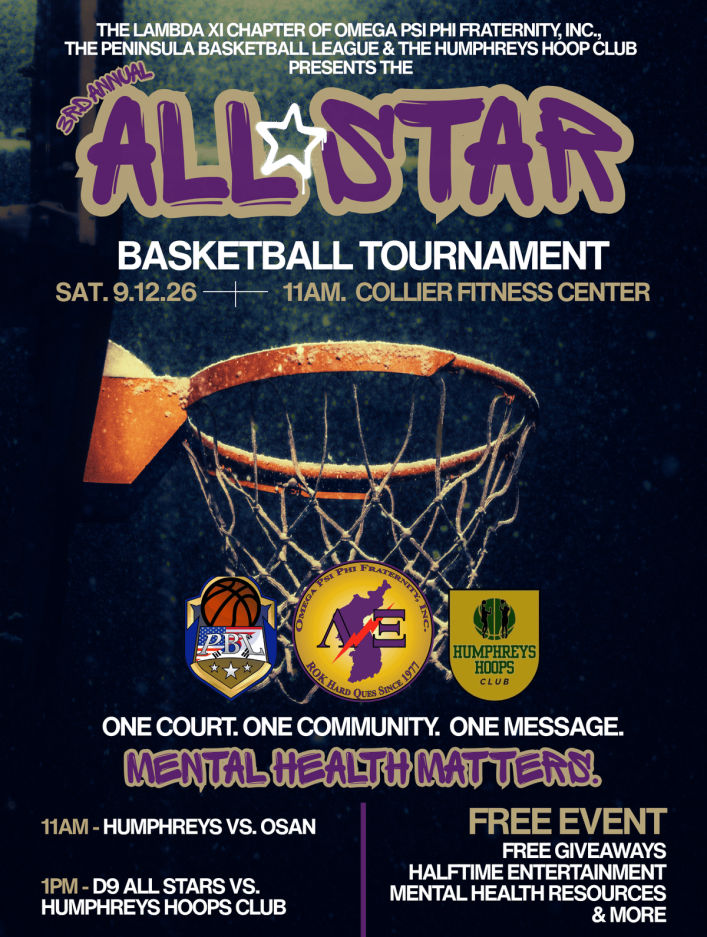
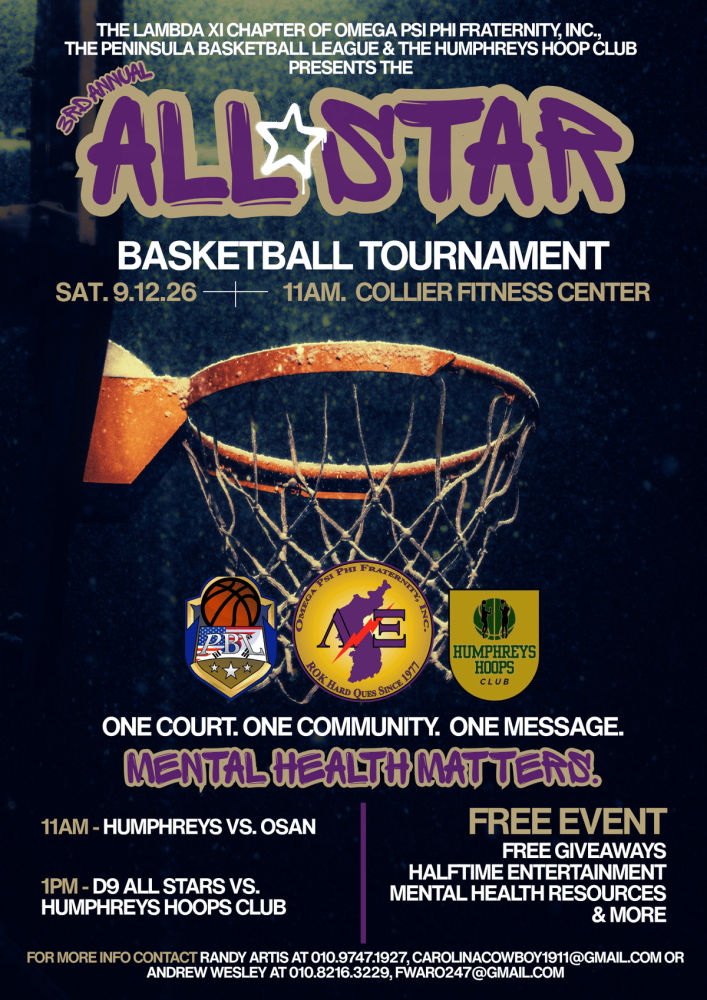
content: event pages rewritten; All-Star hyphenated; full posters restored
Achievement Week, All-Star Game, 50th Anniversary and Youth Leadership Conference get shorter approved copy, named email links, and uncropped posters without captions. The Events dropdown lists only the events.

diff --git a/tooling/mock-src/pages/programs.html b/tooling/mock-src/pages/programs.html
@@ -21,10 +21,10 @@
     <div class="container">
 
       <ul class="programs list-plain" role="list">
-        <li class="program" id="achievement-week"><picture><source type="image/webp" srcset="{{img:images/programs/achievement-week-400.webp}} 400w, {{img:images/programs/achievement-week-700.webp}} 700w, {{img:images/programs/achievement-week-900.webp}} 900w" sizes="(min-width: 1120px) 430px, (min-width: 640px) 40vw, 100vw"><img src="{{img:images/programs/achievement-week.jpg}}" srcset="{{img:images/programs/achievement-week-400.jpg}} 400w, {{img:images/programs/achievement-week-700.jpg}} 700w, {{img:images/programs/achievement-week.jpg}} 900w" sizes="(min-width: 1120px) 430px, (min-width: 640px) 40vw, 100vw" alt="Brothers in purple blazers presenting oversized cheques at the Achievement Week banquet" width="900" height="600"></picture><div><h2>Achievement Week</h2><p>Originally designed to promote the study of Negro life and history. Achievement Week is observed in November of each year and is designed to seek out and give due recognition to those individuals at the local and international levels who have made a noteworthy contribution toward improving the quality of life for black Americans. A High School Essay Contest is held in conjunction with Achievement Week.</p><p><a href="{{href:achievementWeek}}">Achievement Week 2026 and the essay contest</a></p></div></li>
-        <li class="program" id="college-endowment-fund"><picture><source type="image/webp" srcset="{{img:images/programs/college-endowment-fund-400.webp}} 400w, {{img:images/programs/college-endowment-fund-700.webp}} 700w, {{img:images/programs/college-endowment-fund-900.webp}} 900w" sizes="(min-width: 1120px) 430px, (min-width: 640px) 40vw, 100vw"><img src="{{img:images/programs/college-endowment-fund.jpg}}" srcset="{{img:images/programs/college-endowment-fund-400.jpg}} 400w, {{img:images/programs/college-endowment-fund-700.jpg}} 700w, {{img:images/programs/college-endowment-fund.jpg}} 900w" sizes="(min-width: 1120px) 430px, (min-width: 640px) 40vw, 100vw" alt="Two brothers presenting a student with a cheque in front of a Lambda Xi banner" width="900" height="647" loading="lazy"></picture><div><h2>College Endowment Fund</h2><p>Each year the fraternity gives at least $50,000 to Historically Black College Institutions (HBCU) in furtherance of Omega's commitment to provide philanthropic support. Chapters are assessed donations based on chapter size.</p></div></li>
+        <li class="program" id="achievement-week"><picture><source type="image/webp" srcset="{{img:images/programs/achievement-week-400.webp}} 400w, {{img:images/programs/achievement-week-700.webp}} 700w, {{img:images/programs/achievement-week-900.webp}} 900w" sizes="(min-width: 1120px) 430px, (min-width: 640px) 40vw, 100vw"><img src="{{img:images/programs/achievement-week.jpg}}" srcset="{{img:images/programs/achievement-week-400.jpg}} 400w, {{img:images/programs/achievement-week-700.jpg}} 700w, {{img:images/programs/achievement-week.jpg}} 900w" sizes="(min-width: 1120px) 430px, (min-width: 640px) 40vw, 100vw" alt="Brothers in purple blazers presenting oversized checks at the Achievement Week banquet" width="900" height="600"></picture><div><h2>Achievement Week</h2><p>Originally designed to promote the study of Negro life and history. Achievement Week is observed in November of each year and is designed to seek out and give due recognition to those individuals at the local and international levels who have made a noteworthy contribution toward improving the quality of life for black Americans. A High School Essay Contest is held in conjunction with Achievement Week.</p><p><a href="{{href:achievementWeek}}">Achievement Week 2026 and the essay contest</a></p></div></li>
+        <li class="program" id="college-endowment-fund"><picture><source type="image/webp" srcset="{{img:images/programs/college-endowment-fund-400.webp}} 400w, {{img:images/programs/college-endowment-fund-700.webp}} 700w, {{img:images/programs/college-endowment-fund-900.webp}} 900w" sizes="(min-width: 1120px) 430px, (min-width: 640px) 40vw, 100vw"><img src="{{img:images/programs/college-endowment-fund.jpg}}" srcset="{{img:images/programs/college-endowment-fund-400.jpg}} 400w, {{img:images/programs/college-endowment-fund-700.jpg}} 700w, {{img:images/programs/college-endowment-fund.jpg}} 900w" sizes="(min-width: 1120px) 430px, (min-width: 640px) 40vw, 100vw" alt="Two brothers presenting a student with a check in front of a Lambda Xi banner" width="900" height="647" loading="lazy"></picture><div><h2>College Endowment Fund</h2><p>Each year the fraternity gives at least $50,000 to Historically Black College Institutions (HBCU) in furtherance of Omega's commitment to provide philanthropic support. Chapters are assessed donations based on chapter size.</p></div></li>
         <li class="program" id="fatherhood-and-mentoring"><picture><source type="image/webp" srcset="{{img:images/programs/fatherhood-and-mentoring-400.webp}} 400w, {{img:images/programs/fatherhood-and-mentoring-700.webp}} 700w, {{img:images/programs/fatherhood-and-mentoring-900.webp}} 900w" sizes="(min-width: 1120px) 430px, (min-width: 640px) 40vw, 100vw"><img src="{{img:images/programs/fatherhood-and-mentoring.jpg}}" srcset="{{img:images/programs/fatherhood-and-mentoring-400.jpg}} 400w, {{img:images/programs/fatherhood-and-mentoring-700.jpg}} 700w, {{img:images/programs/fatherhood-and-mentoring.jpg}} 900w" sizes="(min-width: 1120px) 430px, (min-width: 640px) 40vw, 100vw" alt="Brothers and children at an outdoor Lambda Xi tent" width="900" height="600" loading="lazy"></picture><div><h2>Fatherhood and Mentoring</h2><p>Every level of the Fraternity, particularly at the chapter level, is asked to play an active role in support of the partnership by actively engaging in the promotion of the Fraternity's Fatherhood Mentoring initiative.</p><p><a href="{{href:ylc}}">Youth Leadership Conference</a></p></div></li>
-        <li class="program" id="health-initiatives"><picture><source type="image/webp" srcset="{{img:images/programs/health-initiatives-400.webp}} 400w, {{img:images/programs/health-initiatives-700.webp}} 700w, {{img:images/programs/health-initiatives-900.webp}} 900w" sizes="(min-width: 1120px) 430px, (min-width: 640px) 40vw, 100vw"><img src="{{img:images/programs/health-initiatives.jpg}}" srcset="{{img:images/programs/health-initiatives-400.jpg}} 400w, {{img:images/programs/health-initiatives-700.jpg}} 700w, {{img:images/programs/health-initiatives.jpg}} 900w" sizes="(min-width: 1120px) 430px, (min-width: 640px) 40vw, 100vw" alt="" width="900" height="507" loading="lazy"></picture><div><h2>Health Initiatives</h2><p>All levels of the fraternity are expected to facilitate, participate and/or coordinate activities that will uplift their communities by promoting good health practices. Some of the programs are the Charles Drew Blood Drive and partnership with the American Diabetes Association.</p><p><a href="{{href:allStar}}">All Star basketball tournament for mental health awareness</a></p></div></li>
+        <li class="program" id="health-initiatives"><picture><source type="image/webp" srcset="{{img:images/programs/health-initiatives-400.webp}} 400w, {{img:images/programs/health-initiatives-700.webp}} 700w, {{img:images/programs/health-initiatives-900.webp}} 900w" sizes="(min-width: 1120px) 430px, (min-width: 640px) 40vw, 100vw"><img src="{{img:images/programs/health-initiatives.jpg}}" srcset="{{img:images/programs/health-initiatives-400.jpg}} 400w, {{img:images/programs/health-initiatives-700.jpg}} 700w, {{img:images/programs/health-initiatives.jpg}} 900w" sizes="(min-width: 1120px) 430px, (min-width: 640px) 40vw, 100vw" alt="" width="900" height="507" loading="lazy"></picture><div><h2>Health Initiatives</h2><p>All levels of the fraternity are expected to facilitate, participate and/or coordinate activities that will uplift their communities by promoting good health practices. Some of the programs are the Charles Drew Blood Drive and partnership with the American Diabetes Association.</p><p><a href="{{href:allStar}}">All-Star basketball tournament for mental health awareness</a></p></div></li>
         <li class="program" id="memorial-service"><picture><source type="image/webp" srcset="{{img:images/programs/memorial-service-400.webp}} 400w, {{img:images/programs/memorial-service-700.webp}} 700w, {{img:images/programs/memorial-service-900.webp}} 900w" sizes="(min-width: 1120px) 430px, (min-width: 640px) 40vw, 100vw"><img src="{{img:images/programs/memorial-service.jpg}}" srcset="{{img:images/programs/memorial-service-400.jpg}} 400w, {{img:images/programs/memorial-service-700.jpg}} 700w, {{img:images/programs/memorial-service.jpg}} 900w" sizes="(min-width: 1120px) 430px, (min-width: 640px) 40vw, 100vw" alt="Brothers seated and standing in rows for a formal group photograph" width="900" height="496" loading="lazy"></picture><div><h2>Memorial Service</h2><p>March 12th of each year has been established as Memorial Day. Chapters are expected to conduct an appropriate service to recall the memory of those members who have entered into Omega Chapter.</p></div></li>
         <li class="program" id="naacp"><picture><source type="image/webp" srcset="{{img:images/programs/naacp-400.webp}} 400w, {{img:images/programs/naacp-700.webp}} 700w, {{img:images/programs/naacp-900.webp}} 900w" sizes="(min-width: 1120px) 430px, (min-width: 640px) 40vw, 100vw"><img src="{{img:images/programs/naacp.jpg}}" srcset="{{img:images/programs/naacp-400.jpg}} 400w, {{img:images/programs/naacp-700.jpg}} 700w, {{img:images/programs/naacp.jpg}} 900w" sizes="(min-width: 1120px) 430px, (min-width: 640px) 40vw, 100vw" alt="" width="900" height="473" loading="lazy"></picture><div><h2>NAACP</h2><p>Every district and chapter of the fraternity is required to maintain a Life Membership at Large in the NAACP. In the event that a chapter or district is not a life member of the NAACP, it must maintain a yearly membership to be in good standing with the fraternity.</p></div></li>
         <li class="program" id="reclamation-and-retention"><picture><source type="image/webp" srcset="{{img:images/programs/reclamation-and-retention-400.webp}} 400w, {{img:images/programs/reclamation-and-retention-700.webp}} 700w, {{img:images/programs/reclamation-and-retention-900.webp}} 900w" sizes="(min-width: 1120px) 430px, (min-width: 640px) 40vw, 100vw"><img src="{{img:images/programs/reclamation-and-retention.jpg}}" srcset="{{img:images/programs/reclamation-and-retention-400.jpg}} 400w, {{img:images/programs/reclamation-and-retention-700.jpg}} 700w, {{img:images/programs/reclamation-and-retention.jpg}} 900w" sizes="(min-width: 1120px) 430px, (min-width: 640px) 40vw, 100vw" alt="Brothers gathered outside a restaurant at night" width="900" height="507" loading="lazy"></picture><div><h2>Reclamation and Retention</h2><p>A concerted effort at the international, district and local levels to retain active brothers and return inactive brothers to full participatory status so that they may enjoy the full benefits of Omega.</p></div></li>

diff --git a/tooling/mock-src/pages/achievementWeek.html b/tooling/mock-src/pages/achievementWeek.html
@@ -14,7 +14,7 @@
       <nav aria-label="Breadcrumb"><ol class="crumbs"><li><a href="{{href:events}}">Events</a></li><li aria-current="page">Achievement Week</li></ol></nav>
       <p class="eyebrow">November 2026</p>
       <h1>Achievement Week 2026</h1>
-      <p>Observed every November across the fraternity: a week that recognises people who have improved the quality of life for Black Americans, awards the high school essay contest, and ends with the chapter banquet.</p>
+      <p>Observed fraternity-wide every November, Achievement Week recognizes individuals who advance the quality of life for Black Americans, awards high school essay contest winners, and concludes with our annual chapter banquet.</p>
     </div>
   </div>
 
@@ -22,45 +22,56 @@
     <div class="container two-col">
       <div class="prose">
         <h2 id="essay-contest">International High School Essay Contest</h2>
+        <h3>Topic prompt</h3>
+        <blockquote><p><em>How can young people use leadership, service, and innovation to create positive change in their communities?</em></p></blockquote>
         <dl class="details">
-          <dt>Topic</dt><dd>How can young people use leadership, service, and innovation to create positive change in their communities?</dd>
-          <dt>Who may enter</dt><dd>College-bound high school seniors at Daegu, Osan and Humphreys high schools</dd>
+          <dt>Eligibility</dt><dd>College-bound high school seniors at Daegu, Osan, and Humphreys high schools</dd>
           <dt>Deadline</dt><dd>{{event:essayDeadline2026:when}}</dd>
-          <dt>Awards</dt><dd>First place $500, second $300, third $200</dd>
-          <dt>Send to</dt><dd><a href="mailto:lambdaxi1911@gmail.com">lambdaxi1911@gmail.com</a></dd>
+          <dt>Awards</dt><dd>1st place $500 &middot; 2nd place $300 &middot; 3rd place $200</dd>
         </dl>
-        <h3>Rules</h3>
-        <ol>
-          <li>Title the essay with the topic above.</li>
-          <li>Original work: not previously published, not under copyright elsewhere, and not generated by an artificial intelligence tool.</li>
-          <li>700 to 750 words, typed, double-spaced, submitted by email as a Microsoft Word file.</li>
-          <li>Entrants under 18 must include the parental release and consent form signed by a parent or guardian.</li>
-          <li>Submit the application packet and the essay together, by the deadline, to the address above.</li>
-        </ol>
+        <h3>Rules and formatting</h3>
+        <ul>
+          <li>Must be 700 to 750 words, typed, double-spaced, and submitted as a Microsoft Word file (<code>.docx</code>).</li>
+          <li>Essay title must match the prompt topic exactly.</li>
+          <li>Must be original work (no artificial intelligence tools, prior publications, or copyrighted text).</li>
+          <li>Entrants under 18 must include the signed parental release and consent form.</li>
+        </ul>
         <h3>How to enter</h3>
         <ol>
-          <li>Register online so the committee expects your packet.</li>
-          <li>Download the application packet, complete it, and collect the consent signature if you are under 18.</li>
-          <li>Email the packet and your essay to <a href="mailto:lambdaxi1911@gmail.com">lambdaxi1911@gmail.com</a> before 5:00 PM on 15 October.</li>
+          <li><strong>Register online:</strong> complete the registration form below so the committee expects your application.</li>
+          <li><strong>Prepare your packet:</strong> download and complete the application packet (including parental consent if under 18).</li>
+          <li><strong>Submit:</strong> email your completed packet and essay together to the <a href="mailto:scholarship@lambdaxi1911.com">Scholarship Committee</a> before 5:00 PM on October 15.</li>
         </ol>
-        <p class="notice"><strong>Registration form status:</strong> the chapter's Google Form currently asks visitors to sign in to a Google account and turns most people away. Until it is made public, email the address above to register and say you could not use the form.</p>
         <p><a class="btn btn--primary" href="https://docs.google.com/forms/d/e/1FAIpQLSdxXzXGsIbBxydbmol96iL05nZGZPfz6bF1n8bH4mjDrgc83Q/viewform">Register for the essay contest (Google Form)</a></p>
       </div>
       <figure class="poster">
         <img src="{{img:images/events/essay-contest-2026.jpg}}" alt="Poster: 2026 Achievement Week High School Essay Contest, Lambda Xi Chapter. The topic, rules, awards, deadline and email address are given in the text on this page." width="707" height="1000">
-        <figcaption>Contest poster, 2026. Everything on it is written out on this page.</figcaption>
       </figure>
     </div>
   </section>
 
-  <section class="section section--alt" aria-labelledby="week-title">
+  <section class="section section--alt" aria-labelledby="banquet-title">
     <div class="container">
       <div class="prose">
-        <h2 id="week-title">Recognition programme and banquet</h2>
-        <p>The chapter has not yet published the 2026 programme. In past years the week has included a recognition programme for community honourees, the essay contest awards, and the Achievement Week banquet. In 2024 the banquet presented the Omega Man of the Year, Citizen of the Year, Founders' Lifetime Achievement, Superior Service and Brigadier General Charles Young Military Leadership awards (RoK Hard News, November 2024).</p>
-        <p>Details will appear here when announced. In the meantime: the <a href="{{href:gallery}}">2024 banquet and 2023 Achievement Week photo albums</a>, and the write-up in the <a href="https://issuu.com/lambdaxi/docs/lambda_xi_rok_hard_news_oy_25">Omega Year 2025 newsletter</a>.</p>
-        <h3>Questions</h3>
-        <p>Essay contest and scholarships: <a href="mailto:lambdaxi1911@gmail.com">lambdaxi1911@gmail.com</a>. Anything else: the <a href="{{href:contact}}">contact page</a>.</p>
+        <h2 id="banquet-title">Recognition program and banquet</h2>
+        <p>Details for the 2026 banquet will be posted as soon as they are announced. In the meantime, catch up on past highlights:</p>
+        <ul>
+          <li><a href="{{href:gallery2024}}#achievement-week-banquet">2024 Banquet photo album</a></li>
+          <li><a href="{{href:gallery2023}}#achievement-week">2023 Achievement Week photo album</a></li>
+          <li><a href="https://issuu.com/lambdaxi/docs/lambda_xi_rok_hard_news_oy_25">2025 Omega Year newsletter write-up</a></li>
+        </ul>
+      </div>
+    </div>
+  </section>
+
+  <section class="section" aria-labelledby="questions-title">
+    <div class="container">
+      <div class="prose">
+        <h2 id="questions-title">Questions?</h2>
+        <ul>
+          <li><strong>Essay contest and scholarships:</strong> <a href="mailto:scholarship@lambdaxi1911.com">Scholarship Committee</a></li>
+          <li><strong>General inquiries:</strong> visit our <a href="{{href:contact}}">Contact Us page</a></li>
+        </ul>
       </div>
     </div>
   </section>

diff --git a/tooling/mock-src/pages/allStar.html b/tooling/mock-src/pages/allStar.html
@@ -2,8 +2,8 @@
 <html lang="en">
 <head>
 {{head}}
-<title>All Star Basketball Tournament 2026 | Lambda Xi Chapter</title>
-<meta name="description" content="The Lambda Xi Chapter's third annual All Star basketball tournament for mental health awareness, Saturday 12 September 2026 at Collier Fitness Center, with the Peninsula Basketball League and the Humphreys Hoop Club.">
+<title>All-Star Basketball Tournament 2026 | Lambda Xi Chapter</title>
+<meta name="description" content="The Lambda Xi Chapter's third annual All-Star basketball tournament for mental health awareness, Saturday 12 September 2026 at Collier Fitness Center, with the Peninsula Basketball League and the Humphreys Hoop Club.">
 </head>
 <body>
 {{header}}
@@ -11,9 +11,9 @@
 <main id="main">
   <div class="page-head">
     <div class="container">
-      <nav aria-label="Breadcrumb"><ol class="crumbs"><li><a href="{{href:events}}">Events</a></li><li aria-current="page">All Star Game</li></ol></nav>
-      <p class="eyebrow">Saturday 12 September 2026 <span class="status status--past">Held</span></p>
-      <h1>3rd Annual All Star Basketball Tournament</h1>
+      <nav aria-label="Breadcrumb"><ol class="crumbs"><li><a href="{{href:events}}">Events</a></li><li aria-current="page">All-Star Game</li></ol></nav>
+      <p class="eyebrow">September 2026 <span class="status status--past">Held</span></p>
+      <h1>3rd Annual All-Star Basketball Tournament</h1>
       <p>One court. One community. One message: mental health matters. Presented by the Lambda Xi Chapter of Omega Psi Phi Fraternity, Inc., the Peninsula Basketball League and the Humphreys Hoop Club.</p>
     </div>
   </div>
@@ -36,24 +36,17 @@
             <tr><td><time datetime="2026-09-12T13:00+09:00">1:00 PM</time></td><td>D9 All Stars vs Humphreys Hoops Club</td></tr>
           </tbody>
         </table>
-        <h2>Afterwards</h2>
-        <p>The 2026 tournament has been held. Photographs go to the <a href="{{href:gallery}}">gallery</a> under 2026 when the chapter publishes them, and a write-up will follow in the newsletter. Next year's date will be announced on the <a href="{{href:events}}">events page</a>.</p>
+        <h2>Afterward</h2>
+        <p>The 2026 tournament has been held. Check back soon for photos in the <a href="{{href:gallery}}">gallery</a> and a write-up in the <a href="{{href:news}}">newsletter</a>. Next year's date will be announced here.</p>
         <h3>Questions</h3>
-        <p>For more information, email the organisers, Randy Artis at <a href="mailto:carolinacowboy1911@gmail.com">carolinacowboy1911@gmail.com</a> or Andrew Wesley at <a href="mailto:fwaro247@gmail.com">fwaro247@gmail.com</a>, or use the <a href="{{href:contact}}">contact page</a> and choose "Events".</p>
+        <p>For more information, email the organizers, <a href="mailto:carolinacowboy1911@gmail.com">Randy Artis</a> or <a href="mailto:fwaro247@gmail.com">Andrew Wesley</a>, or use the <a href="{{href:contact}}">contact page</a> and choose "Events".</p>
       </div>
       <figure class="poster">
-        <img src="{{img:images/events/all-star-2026.jpg}}" alt="Poster: 3rd Annual All Star Basketball Tournament, Saturday 12 September 2026, 11 AM, Collier Fitness Center. Logos of the Peninsula Basketball League, Lambda Xi Chapter and Humphreys Hoops Club over a basketball hoop. Mental health matters." width="707" height="937">
-        <figcaption>Tournament poster, 2026, with the contact strip cropped. The details and the organisers' emails are written out on this page.</figcaption>
+        <img src="{{img:images/events/all-star-2026.jpg}}" alt="Poster: 3rd Annual All-Star Basketball Tournament, Saturday 12 September 2026, 11 AM, Collier Fitness Center. Logos of the Peninsula Basketball League, Lambda Xi Chapter and Humphreys Hoops Club over a basketball hoop. Mental health matters. Games at 11 AM and 1 PM; free event; contacts Randy Artis and Andrew Wesley with phone numbers and email addresses." width="707" height="1000">
       </figure>
     </div>
   </section>
 
-  <section class="section section--alt" aria-labelledby="why-title">
-    <div class="container prose">
-      <h2 id="why-title">Why a basketball tournament</h2>
-      <p>The tournament is the chapter's mental health awareness event, part of the fraternity's mandated Health Initiatives programme. Teams from the Humphreys and Osan communities play, and mental health resources are on site for players and spectators. See <a href="{{href:programs}}">Mandated Programs</a>.</p>
-    </div>
-  </section>
 </main>
 
 {{footer}}

diff --git a/tooling/mock-src/pages/anniversary.html b/tooling/mock-src/pages/anniversary.html
@@ -2,7 +2,7 @@
 <html lang="en">
 <head>
 {{head}}
-<title>50th Anniversary, 30 April to 2 May 2027 | Lambda Xi Chapter</title>
+<title>Lambda Xi at 50: Golden Jubilee Celebration | Lambda Xi Chapter</title>
 <meta name="description" content="The Lambda Xi Chapter of Omega Psi Phi Fraternity, Inc. marks fifty years on the Korean Peninsula from 30 April to 2 May 2027. Dates, how to support the anniversary, and where details will be published.">
 </head>
 <body>
@@ -12,9 +12,9 @@
   <div class="page-head">
     <div class="container">
       <nav aria-label="Breadcrumb"><ol class="crumbs"><li><a href="{{href:events}}">Events</a></li><li aria-current="page">50th Anniversary</li></ol></nav>
-      <p class="eyebrow">30 April to 2 May 2027</p>
-      <h1>Lambda Xi at 50</h1>
-      <p>Chartered on 22 February 1977 at Yongsan, the first Black Greek Letter Organization on the Korean Peninsula. The chapter marks fifty years with a weekend of events in the Republic of Korea.</p>
+      <p class="eyebrow">April 30 &ndash; May 2, 2027 &middot; Republic of Korea</p>
+      <h1>Lambda Xi at 50: Golden Jubilee Celebration</h1>
+      <p>Chartered on February 22, 1977, in Yongsan, Lambda Xi Chapter stands as the first Black Greek Letter Organization on the Korean Peninsula. Join us for a historic anniversary weekend honoring 50 years of legacy, service, and brotherhood.</p>
     </div>
   </div>
 
@@ -25,30 +25,21 @@
         <dl class="details">
           <dt>When</dt><dd>{{event:anniversary2027:when}}</dd>
           <dt>Where</dt><dd>{{event:anniversary2027:place}}. Venue and host city to be announced.</dd>
-          <dt>Programme</dt><dd>To be announced. Expect a gala banquet, a service project and fellowship events across the weekend.</dd>
-          <dt>Attending</dt><dd>Registration and hotel details will be published here. Brothers travelling from outside Korea should plan for the dates now.</dd>
+          <dt>Program</dt><dd>To be announced. Expect a gala banquet, a service project and fellowship events across the weekend.</dd>
+          <dt>Attending</dt><dd>Registration and hotel details will be posted here. Brothers traveling from outside Korea should plan for the dates now.</dd>
         </dl>
         <h2 id="donate">Support the anniversary</h2>
-        <p>Donations fund the weekend and the chapter's programmes in its fiftieth year. The link below is the chapter's PayPal donation page, the same one the poster's QR code opens.</p>
+        <p>Donations fund the weekend and the chapter's programs in its fiftieth year.</p>
         <p><a class="btn btn--gold" href="https://www.paypal.com/qrcodes/p2pqrc/ARQKBFSULDQT6">Donate through PayPal</a></p>
-        <h2 id="updates">Get updates</h2>
-        <p>Details will be posted on this page and in the <a href="{{href:news}}">newsletter</a>. To be told when registration opens, use the <a href="{{href:contact}}">contact page</a> and choose "Events".</p>
-        <h3>Questions</h3>
-        <p><a href="{{href:contact}}">Contact the chapter</a>.</p>
+        <h2 id="updates">Questions?</h2>
+        <p>Check back soon for updates. Details will also appear in the <a href="{{href:news}}">newsletter</a>. To be told when registration opens, or for anything else, use the <a href="{{href:contact}}">contact page</a> and choose "Events".</p>
       </div>
       <figure class="poster">
         <img src="{{img:images/events/50th-anniversary-2027.jpg}}" alt="Poster: Lambda Xi Chapter 50th Anniversary, 30 April to 2 May 2027, Republic of Korea. Gold numerals over a map of Korea, with a Donate to support the cause banner and a PayPal QR code." width="709" height="1000">
-        <figcaption>Anniversary poster. The QR code opens the PayPal page linked on this page.</figcaption>
       </figure>
     </div>
   </section>
 
-  <section class="section section--alt" aria-labelledby="history-title">
-    <div class="container prose">
-      <h2 id="history-title">Fifty years in brief</h2>
-      <p>Lambda Xi was the fifth Omega Psi Phi chapter chartered outside the continental United States. Eleven charter members and an inaugural council led by Brother Alphonso Maldon founded it at the Eighth United States Army Headquarters. Thirty-one Basilei have led the chapter since; it has been 13th District Graduate Chapter of the Year in 2015 and every year from 2023 to 2026. Read the <a href="{{href:history}}">chapter history</a> and the <a href="{{href:leadership}}">leadership and lineage</a> pages.</p>
-    </div>
-  </section>
 </main>
 
 {{footer}}

diff --git a/tooling/mock-src/pages/ylc.html b/tooling/mock-src/pages/ylc.html
@@ -12,7 +12,7 @@
   <div class="page-head">
     <div class="container">
       <nav aria-label="Breadcrumb"><ol class="crumbs"><li><a href="{{href:events}}">Events</a></li><li aria-current="page">Youth Leadership Conference</li></ol></nav>
-      <p class="eyebrow">Saturday 17 October 2026</p>
+      <p class="eyebrow">October 2026</p>
       <h1>2026 Youth Leadership Conference</h1>
       <p>Lead today. Impact tomorrow. Inspire forever. A free one-day conference for young men and women in grades 9 to 12, presented by the Lambda Xi Chapter of Omega Psi Phi Fraternity, Inc. and the RoK Alumnae Chapter of Delta Sigma Theta Sorority, Inc.</p>
     </div>
@@ -30,30 +30,17 @@
           <dt>Sessions</dt><dd>Leadership development; teamwork and collaboration; community service; goal setting and success; financial literacy</dd>
         </dl>
         <h2 id="register">Register</h2>
-        <p>Registration is a Google Form in several short pages. The first page asks for an email address; the rest follow from there. <span class="status status--open">Open</span></p>
+        <p>Registration is open. Places go to the first 60 students. <span class="status status--open">Open</span></p>
         <p><a class="btn btn--primary" href="https://docs.google.com/forms/d/e/1FAIpQLSeLFCfsAgWfeI1He-_zwalLjL-4tKzLsTzlu9PYI3Tt1RmhMg/viewform">Register now (Google Form)</a></p>
-        <details>
-          <summary>Fill in the form here instead</summary>
-          <div class="embed stack-top-sm">
-            <iframe referrerpolicy="strict-origin" src="https://docs.google.com/forms/d/e/1FAIpQLSeLFCfsAgWfeI1He-_zwalLjL-4tKzLsTzlu9PYI3Tt1RmhMg/viewform?embedded=true" title="Youth Leadership Conference registration form" loading="lazy"></iframe>
-          </div>
-        </details>
         <h3 class="stack-top">Questions</h3>
-        <p>For more information, email the organiser, Clint Carmichael, at <a href="mailto:clint.carmichael818@gmail.com">clint.carmichael818@gmail.com</a>, or use the <a href="{{href:contact}}">contact page</a> and choose "Events".</p>
+        <p>For more information, email the organizer, <a href="mailto:clint.carmichael818@gmail.com">Clint Carmichael</a>, or use the <a href="{{href:contact}}">contact page</a> and choose "Events".</p>
       </div>
       <figure class="poster">
-        <img src="{{img:images/events/ylc-2026.jpg}}" alt="Poster: 2026 Youth Leadership Conference. Four students at a table; five session icons; Saturday 17 October 2026, 11:00 AM, Humphreys Middle School; grades 9 to 12; free, first 60 students." width="666" height="952">
-        <figcaption>Conference poster, 2026, with the contact strip cropped. The details and the organiser's email are written out on this page.</figcaption>
+        <img src="{{img:images/events/ylc-2026.jpg}}" alt="Poster: 2026 Youth Leadership Conference. Four students at a table; five session icons; Saturday 17 October 2026, 11:00 AM, Humphreys Middle School; grades 9 to 12; free, first 60 students; QR code; for more information Clint Carmichael, 010-3057-1911, clint.carmichael818@gmail.com." width="666" height="1000">
       </figure>
     </div>
   </section>
 
-  <section class="section section--alt" aria-labelledby="about-title">
-    <div class="container prose">
-      <h2 id="about-title">About the conference</h2>
-      <p>The conference is the chapter's annual youth programme on the Peninsula, run with the RoK Alumnae Chapter of Delta Sigma Theta Sorority, Inc. It sits alongside the fraternity's mandated Fatherhood and Mentoring, Scholarship and Social Action programmes. See <a href="{{href:programs}}">Mandated Programs</a> for the wider picture and the <a href="{{href:gallery}}">gallery</a> for photographs from previous years.</p>
-    </div>
-  </section>
 </main>
 
 {{footer}}

diff --git a/tooling/mock-src/pages/events.html b/tooling/mock-src/pages/events.html
@@ -3,7 +3,7 @@
 <head>
 {{head}}
 <title>Events | Lambda Xi Chapter</title>
-<meta name="description" content="Upcoming and recent events of the Lambda Xi Chapter of Omega Psi Phi Fraternity, Inc.: Achievement Week and the essay contest, the Youth Leadership Conference, the All Star basketball tournament and the 50th Anniversary.">
+<meta name="description" content="Upcoming and recent events of the Lambda Xi Chapter of Omega Psi Phi Fraternity, Inc.: Achievement Week and the essay contest, the Youth Leadership Conference, the All-Star basketball tournament and the 50th Anniversary.">
 </head>
 <body>
 {{header}}
@@ -13,7 +13,6 @@
     <div class="container">
       <p class="eyebrow">Chapter</p>
       <h1>Events</h1>
-      <p>What the chapter is running this year, in date order, with the details that used to live only on the posters. Each event has its own page with the full information and the registration or donation route.</p>
     </div>
   </div>
 
@@ -30,9 +29,9 @@
       <dl class="details prose">
         <dt>1 February to 1 May</dt><dd><a href="{{href:scholarships}}">Scholarship applications</a> open</dd>
         <dt>12 March</dt><dd>Memorial Service for brothers who have entered Omega Chapter</dd>
-        <dt>September</dt><dd>All Star basketball tournament</dd>
+        <dt>September</dt><dd>All-Star basketball tournament</dd>
         <dt>October</dt><dd>Youth Leadership Conference; essay contest deadline</dd>
-        <dt>November</dt><dd>Achievement Week: recognition programme, essay awards and banquet</dd>
+        <dt>November</dt><dd>Achievement Week: recognition program, essay awards and banquet</dd>
         <dt>31 December</dt><dd>New Year's Eve Party at Dragon Hill Lodge</dd>
       </dl>
     </div>

diff --git a/tooling/mock-src/partials/header.html b/tooling/mock-src/partials/header.html
@@ -39,10 +39,9 @@
         <li class="nav__item--has-menu">
           <button type="button" aria-expanded="false" aria-controls="menu-events">Events <svg viewBox="0 0 24 24" aria-hidden="true" fill="none" stroke="currentColor" stroke-width="3" stroke-linecap="round" stroke-linejoin="round"><path d="M6 9l6 6 6-6"/></svg></button>
           <ul class="nav__menu" id="menu-events">
-            <li><a href="{{href:events}}"{{current:events}}>All events</a></li>
             <li><a href="{{href:achievementWeek}}"{{current:achievementWeek}}>Achievement Week</a></li>
             <li><a href="{{href:ylc}}"{{current:ylc}}>Youth Leadership Conference</a></li>
-            <li><a href="{{href:allStar}}"{{current:allStar}}>All Star Game</a></li>
+            <li><a href="{{href:allStar}}"{{current:allStar}}>All-Star Game</a></li>
             <li><a href="{{href:anniversary}}"{{current:anniversary}}>50th Anniversary</a></li>
             <li><a href="{{href:nye}}"{{current:nye}}>New Year's Eve Party</a></li>
           </ul>

diff --git a/tooling/mock-src/mock.css b/tooling/mock-src/mock.css
@@ -32,6 +32,8 @@ code, kbd { font-family: var(--mono); font-size: 0.9em; }
 .visually-hidden { position: absolute !important; width: 1px; height: 1px; margin: -1px; padding: 0; overflow: hidden; clip: rect(0 0 0 0); white-space: nowrap; border: 0; }
 .container { width: min(100% - 2 * var(--space-5), var(--container)); margin-inline: auto; }
 .prose { max-width: var(--measure); overflow-wrap: anywhere; }
+.prose blockquote { margin: 0 0 var(--space-4); padding: var(--space-2) var(--space-4); border-left: 4px solid var(--brand-gold); }
+.prose blockquote p { margin: 0; }
 .eyebrow { font-size: 0.8rem; letter-spacing: 0.14em; text-transform: uppercase; font-weight: 700; color: var(--muted); margin: 0 0 var(--space-2); }
 .section { padding-block: clamp(var(--space-7), 6vw, var(--space-8)); }
 .section--alt { background: var(--panel); border-block: 1px solid var(--rule-soft); }
